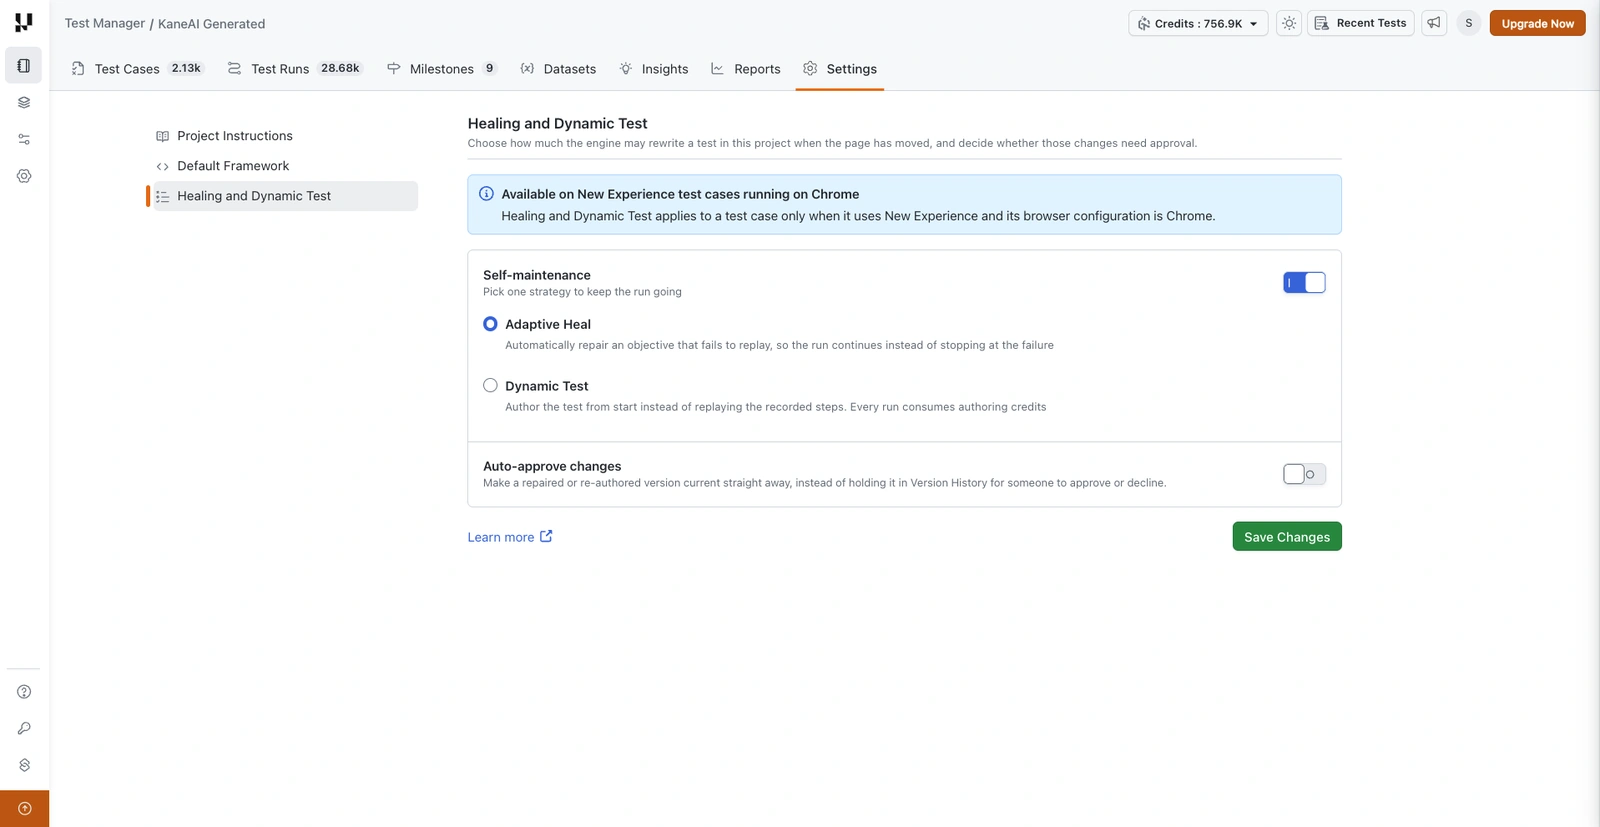
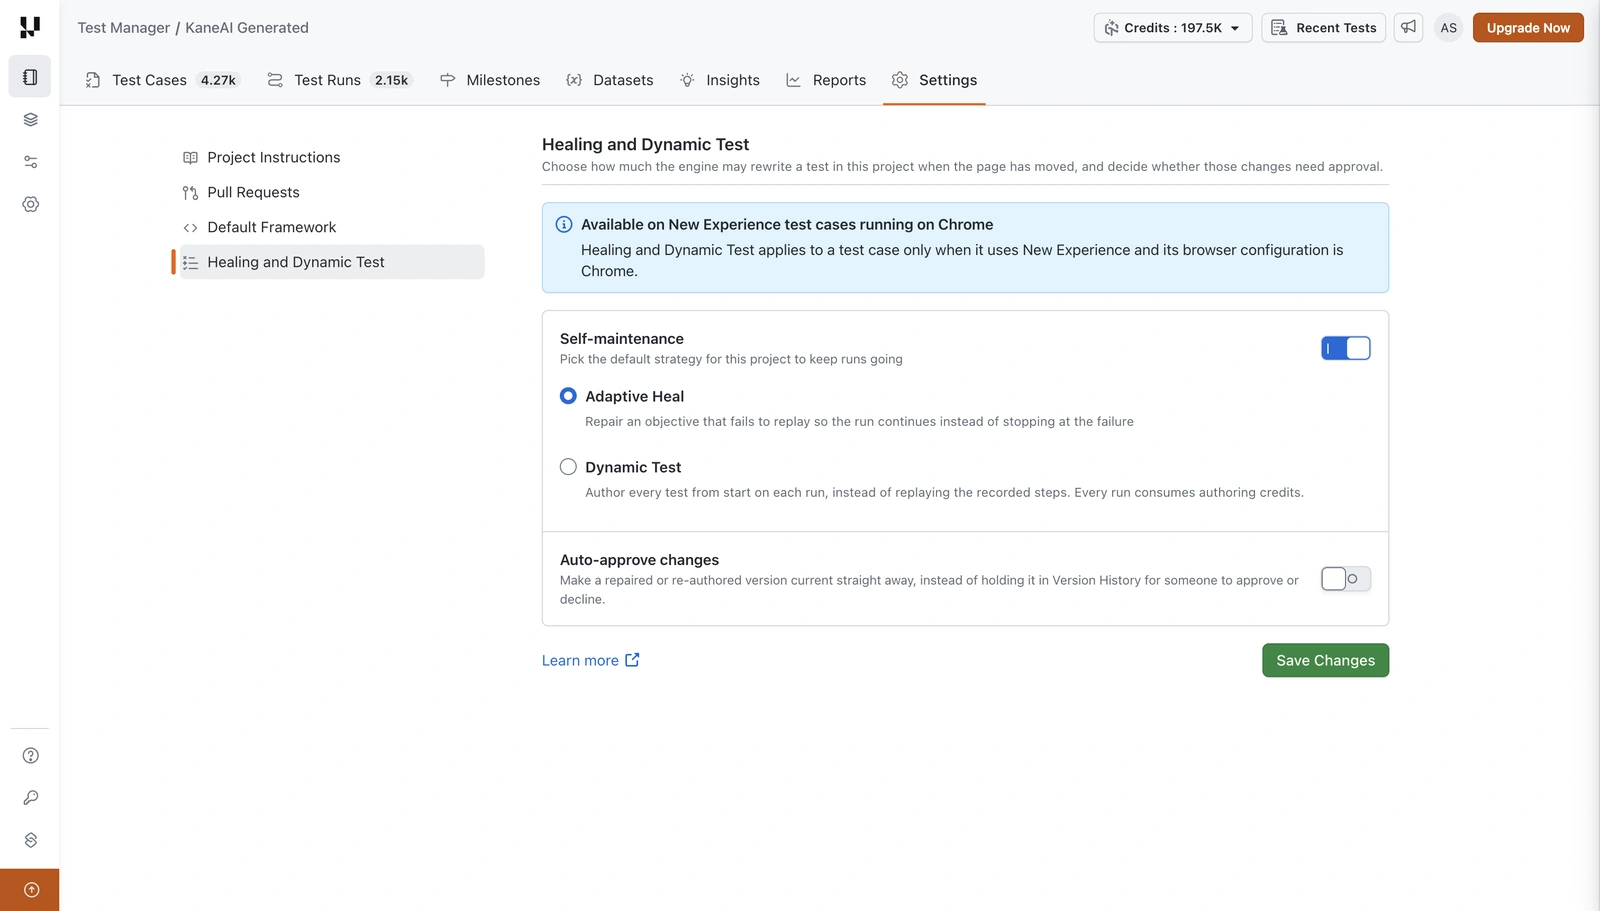
Refresh the three Healing and Dynamic Test screenshots
The three settings screens have been reworked in the product, so the screenshots on this page
no longer matched what a reader sees. All three are retaken against the current UI: the
organization page under Org Product Preferences, the project page under a project's Settings,
and Test Configurations under Advanced Configurations on a test run.

Each is WebP at the house width of 1600px, quality 95 with no palette quantization, and every
one is under the 100KB budget: 81KB, 73KB and 64KB.

The only text this touches is the height attribute on those same three img tags. The new
files are 910, 911 and 912 pixels tall where the old ones were 827, 825 and 826, and a height
that disagrees with the file makes the page reflow as the image loads. Nothing else in the
page is altered: no prose, no alt text, no headings, no frontmatter.

run-with-hyperexecute.webp is unchanged and untouched, as is every other page, sidebars.js and
the site config.

diff --git a/docs/kaneai-healing-and-dynamic-test.md b/docs/kaneai-healing-and-dynamic-test.md
@@ -208,11 +208,11 @@ Self-maintenance is set at three levels. Each one is a starting position for the
 
 Set the organization default under **Organization Settings → Org Product Preferences → Kane AI → Healing and Dynamic Test**.
 
-<img loading="lazy" src={require('../assets/images/kane-ai/healing-dynamic-test/organization-settings.webp').default} alt="Healing and Dynamic Test in Organization Settings, with the strategy toggle, Adaptive Heal, Dynamic Test and Auto-approve changes" width="1600" height="827" className="doc_img"/>
+<img loading="lazy" src={require('../assets/images/kane-ai/healing-dynamic-test/organization-settings.webp').default} alt="Healing and Dynamic Test in Organization Settings, with the strategy toggle, Adaptive Heal, Dynamic Test and Auto-approve changes" width="1600" height="910" className="doc_img"/>
 
 Set the project default under **Test Manager → Project Settings → Healing and Dynamic Test**.
 
-<img loading="lazy" src={require('../assets/images/kane-ai/healing-dynamic-test/project-settings.webp').default} alt="Healing and Dynamic Test in Project Settings, showing Self-maintenance with Adaptive Heal and Dynamic Test, and the Auto-approve changes toggle" width="1600" height="825" className="doc_img"/>
+<img loading="lazy" src={require('../assets/images/kane-ai/healing-dynamic-test/project-settings.webp').default} alt="Healing and Dynamic Test in Project Settings, showing Self-maintenance with Adaptive Heal and Dynamic Test, and the Auto-approve changes toggle" width="1600" height="911" className="doc_img"/>
 
 A project follows the organization until someone changes it there. Once changed, the project keeps its own value and later organization changes no longer overwrite it.
 
@@ -231,7 +231,7 @@ Retry on Failure exists only at the run level, so it is chosen per run.
 4. For Adaptive Heal or Dynamic Test, set **Auto-approve changes**. For Retry on Failure, set **Maximum Retries**.
 5. Click **Execute**.
 
-<img loading="lazy" src={require('../assets/images/kane-ai/healing-dynamic-test/advanced-configurations.webp').default} alt="Test Configurations under Advanced Configurations, showing Self-maintenance with Adaptive Heal, Dynamic Test and Retry on Failure, and the Auto-approve changes toggle" width="1600" height="826" className="doc_img"/>
+<img loading="lazy" src={require('../assets/images/kane-ai/healing-dynamic-test/advanced-configurations.webp').default} alt="Test Configurations under Advanced Configurations, showing Self-maintenance with Adaptive Heal, Dynamic Test and Retry on Failure, and the Auto-approve changes toggle" width="1600" height="912" className="doc_img"/>
 
 ### Check the strategy before you execute
 ***
